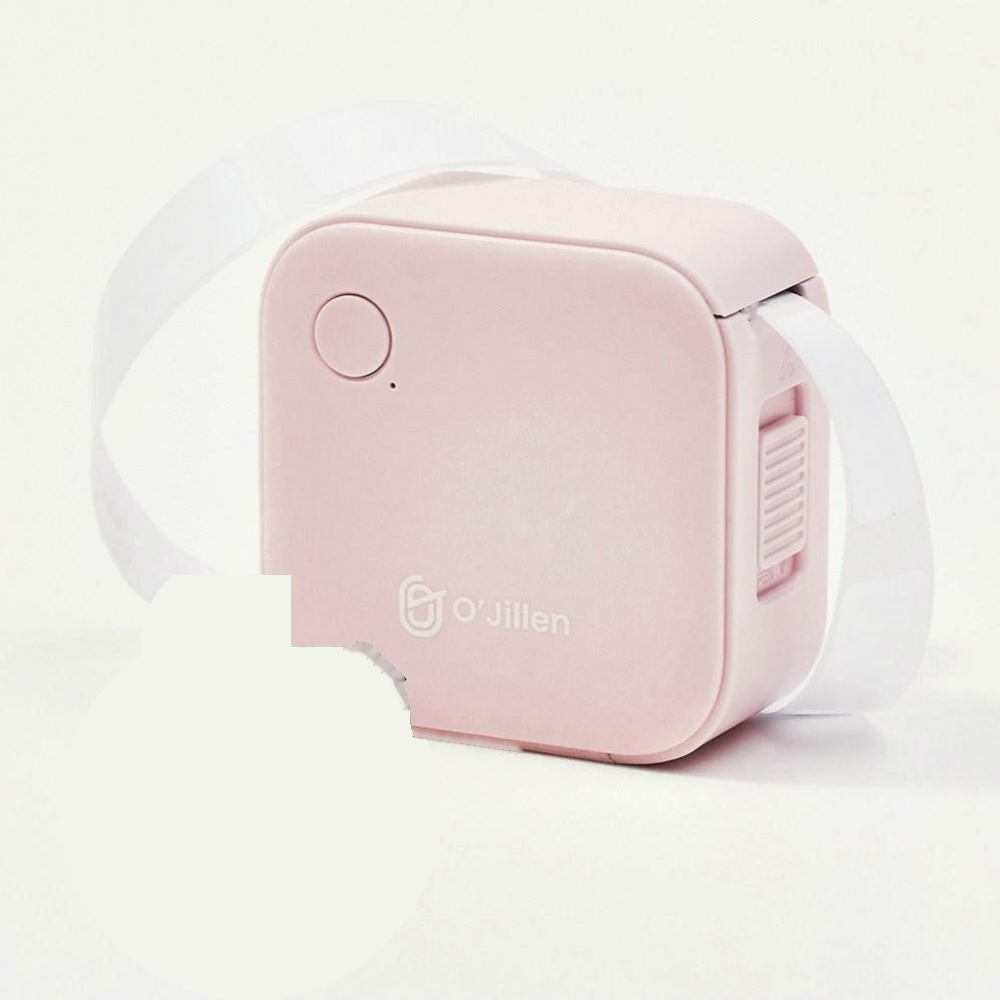
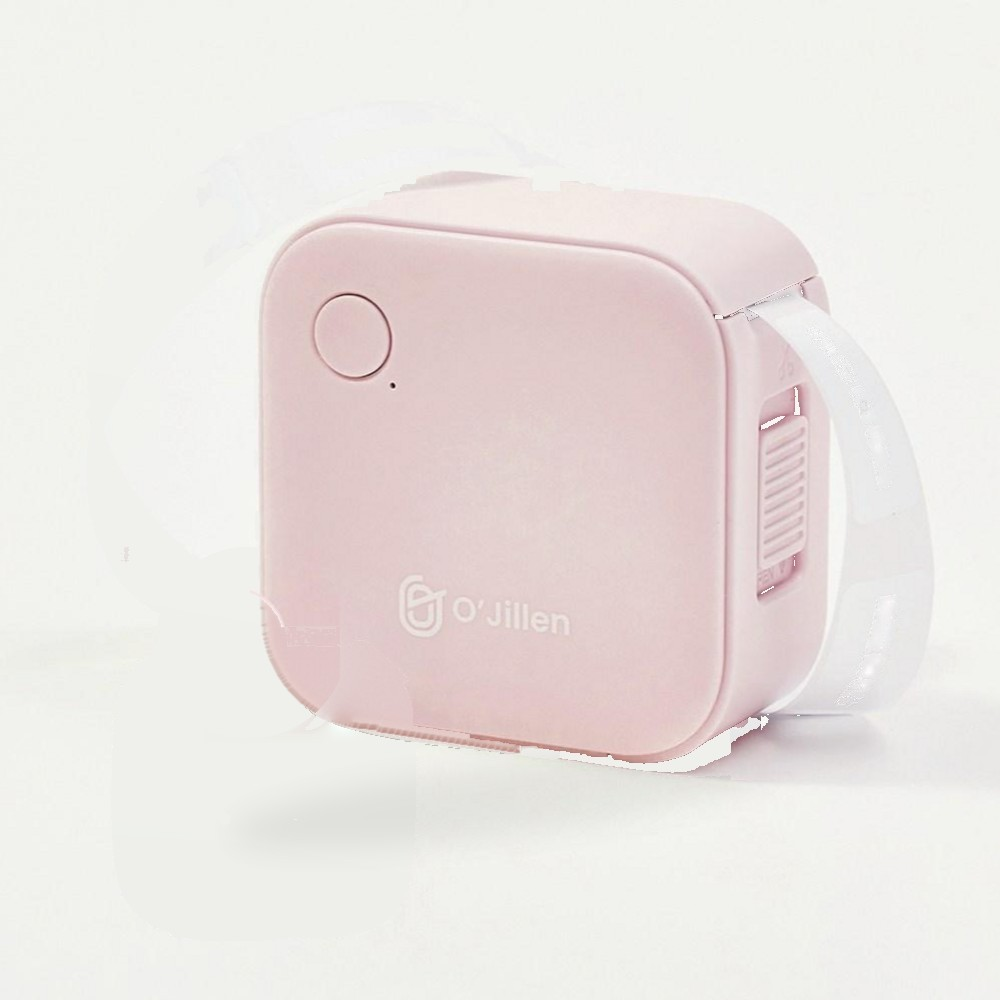
fix: 프린터 왼쪽 아래 모서리를 메우고 대조 광고를 다시 만든다
파우치가 가렸던 본체 모서리를 오른쪽 아래 곡선을 기준으로 이어 붙이고, 왼쪽 테이프 고리와 평평한 흰 사각형을 걷어 냈다. 버튼, 로고, 슬라이더는 원본 픽셀이다.

diff --git a/docs/hw9-handoff.md b/docs/hw9-handoff.md
@@ -26,7 +26,7 @@
 ### 2번: 광고 이미지와 랜딩페이지
 - [x] 실험 광고 '미니' 제거판: `docs/ads/experiment_ad.png` → 🙋 확인·확정
 - [ ] 🙋 **배너 속 핑크 제품 사진의 출처 확인.** 예진 님이 직접 찍은 사진인지, GPT로 만든 사진인지에 따라 광고에 "실제 제품"처럼 써도 되는지가 달라져요.
-- [x] 대조 광고: `docs/ads/control_ad.png` (쿠팡 대표 이미지 + 상품명) → 🙋 확인·확정 ("무제한 0원 프린팅!" 문구와 파우치가 사진에 있어요, 3절)
+- [x] 대조 광고: `docs/ads/control_ad.png` (쿠팡 대표 이미지 + 상품명). 사진에서 테이프 문구, 왼쪽 테이프 고리, 파우치를 뺐고 왼쪽 아래 모서리를 메웠어요.
 - [ ] 🙋 '최대한 무료'가 크레딧인지, 최소 예산인지, 직접 게시인지 정하고 노출 하한 기준 확정 (3-1절)
 - [x] ✅ 랜딩 상품 사진: 같은 쿠팡 CDN 대표 이미지를 `assets/product.jpg`로 넣었어요
 - [x] ✅ 초안 배너와 "수업 실습용 초안" 문구 제거
@@ -124,13 +124,13 @@ npx vercel deploy --prod --scope hanyejin8844-9549s-projects
 - 교수님 슬라이드 9·20번 하이퍼링크: `https://www.coupang.com/vp/products/8113159630?itemId=22992058726&vendorItemId=95681947785` (슬라이드 pptx로 내보내서 확인)
 - 쿠팡 페이지는 403으로 막혀서, 로우차트(https://www.lowchart.com/8113159630-22992058726)가 이 상품의 대표 이미지로 쓰는 쿠팡 CDN 원본을 받았어요. alt: "오지렌 네임스티커 감열식 라벨프린터 라벨기 핑크, WP9529(핑크), 1개"
 - 받은 URL: `https://thumbnail.coupangcdn.com/thumbnails/remote/1000x1000ex/image/vendor_inventory/e8f9/a0703e42dcd726aef299748f42f322c7438ba747220cc221c626f15b93ec.png` (1000×1000)
-- 랜딩 `assets/product.jpg`는 이 파일에서 테이프 문구와 파우치를 지운 JPEG예요. 본체 앞면은 원본이고, 파우치가 가렸던 왼쪽 아래 모서리만 비어 있어요. 대조 광고는 `docs/ads/control_ad.png`입니다.
+- 랜딩 `assets/product.jpg`는 이 파일에서 테이프 문구, 왼쪽 테이프 고리, 파우치를 지운 JPEG예요. 버튼, 로고, 옆 슬라이더와 가려지지 않은 본체는 원본 픽셀입니다. 파우치가 가렸던 왼쪽 아래 모서리는 오른쪽 아래 모서리의 둥근 곡선을 기준으로 메웠고, 배경은 평평한 흰색이 아니라 원본과 같은 옅은 그라데이션입니다. 대조 광고는 이 사진으로 다시 만든 `docs/ads/control_ad.png`입니다.
 - 원본 보관 위치(당시 작업 폴더): `/workspace/study/banners/control/src/e8f9.png`. 다른 옵션 이미지(그린·화이트·블루 본체, 라벨지)도 그 `src/`에 있었어요. 이 레포에는 광고 두 장(`docs/ads/`)과 랜딩용 JPEG만 넣었어요.
 - 합성 스크립트(당시 작업 폴더): `/workspace/study/banners/control/make_control.py`
 
 **대조 광고에서 결정하실 점**
-- 쿠팡 원본 사진 속 라벨 테이프에 판매자 문구 "무제한 0원 프린팅!"이 찍혀 있어요. 확인 안 된 사양(잉크 불필요)에 가까운 문구지만, 사진을 고치지 않으려고 그대로 뒀어요. 지우려면 사진 편집이 필요해요.
-- 원본에 "+ 파우치(케이스)"가 함께 있어요. 핑크 1개 옵션에 파우치가 포함되는지는 확인하지 못했어요.
+- 쿠팡 원본 사진의 라벨 테이프에는 판매자 문구 "무제한 0원 프린팅!"이 찍혀 있었어요. 랜딩 사진과 대조 광고에서는 그 문구와 왼쪽 테이프 고리, 파우치를 뺐습니다.
+- 원본에 "+ 파우치(케이스)"가 함께 있었어요. 핑크 1개 옵션에 파우치가 포함되는지는 확인하지 못했어요. 광고 사진에는 파우치를 넣지 않았습니다.
 - 핑크 본체 사진은 이 한 장뿐이라 control_v2는 만들지 않았어요.
 
 **Drive에 있는 예진 님 배너 (참고)**

diff --git a/README.md b/README.md
@@ -26,7 +26,7 @@ npm run build
 
 ## 상품 사진
 
-`config.js`의 `productPhoto`는 `"/assets/product.jpg"`입니다. 이 파일은 아래 쿠팡 CDN 대표 이미지(1000×1000)에서 테이프 문구와 파우치를 지운 JPEG입니다. 본체 앞면, 버튼, 로고, 옆 슬라이더는 원본 픽셀입니다. 파우치가 가렸던 왼쪽 아래 모서리는 그 자리에서 잘라 냈습니다.
+`config.js`의 `productPhoto`는 `"/assets/product.jpg"`입니다. 이 파일은 아래 쿠팡 CDN 대표 이미지(1000×1000)에서 테이프 문구, 왼쪽 테이프 고리, 파우치를 지운 JPEG입니다. 버튼, 로고, 옆 슬라이더와 가려지지 않은 본체는 원본 픽셀입니다. 파우치가 가렸던 왼쪽 아래 모서리는 오른쪽 아래 모서리의 둥근 곡선을 기준으로 이어 붙였고, 배경은 원본과 같은 옅은 그라데이션입니다.
 
 `https://thumbnail.coupangcdn.com/thumbnails/remote/1000x1000ex/image/vendor_inventory/e8f9/a0703e42dcd726aef299748f42f322c7438ba747220cc221c626f15b93ec.png`
 
